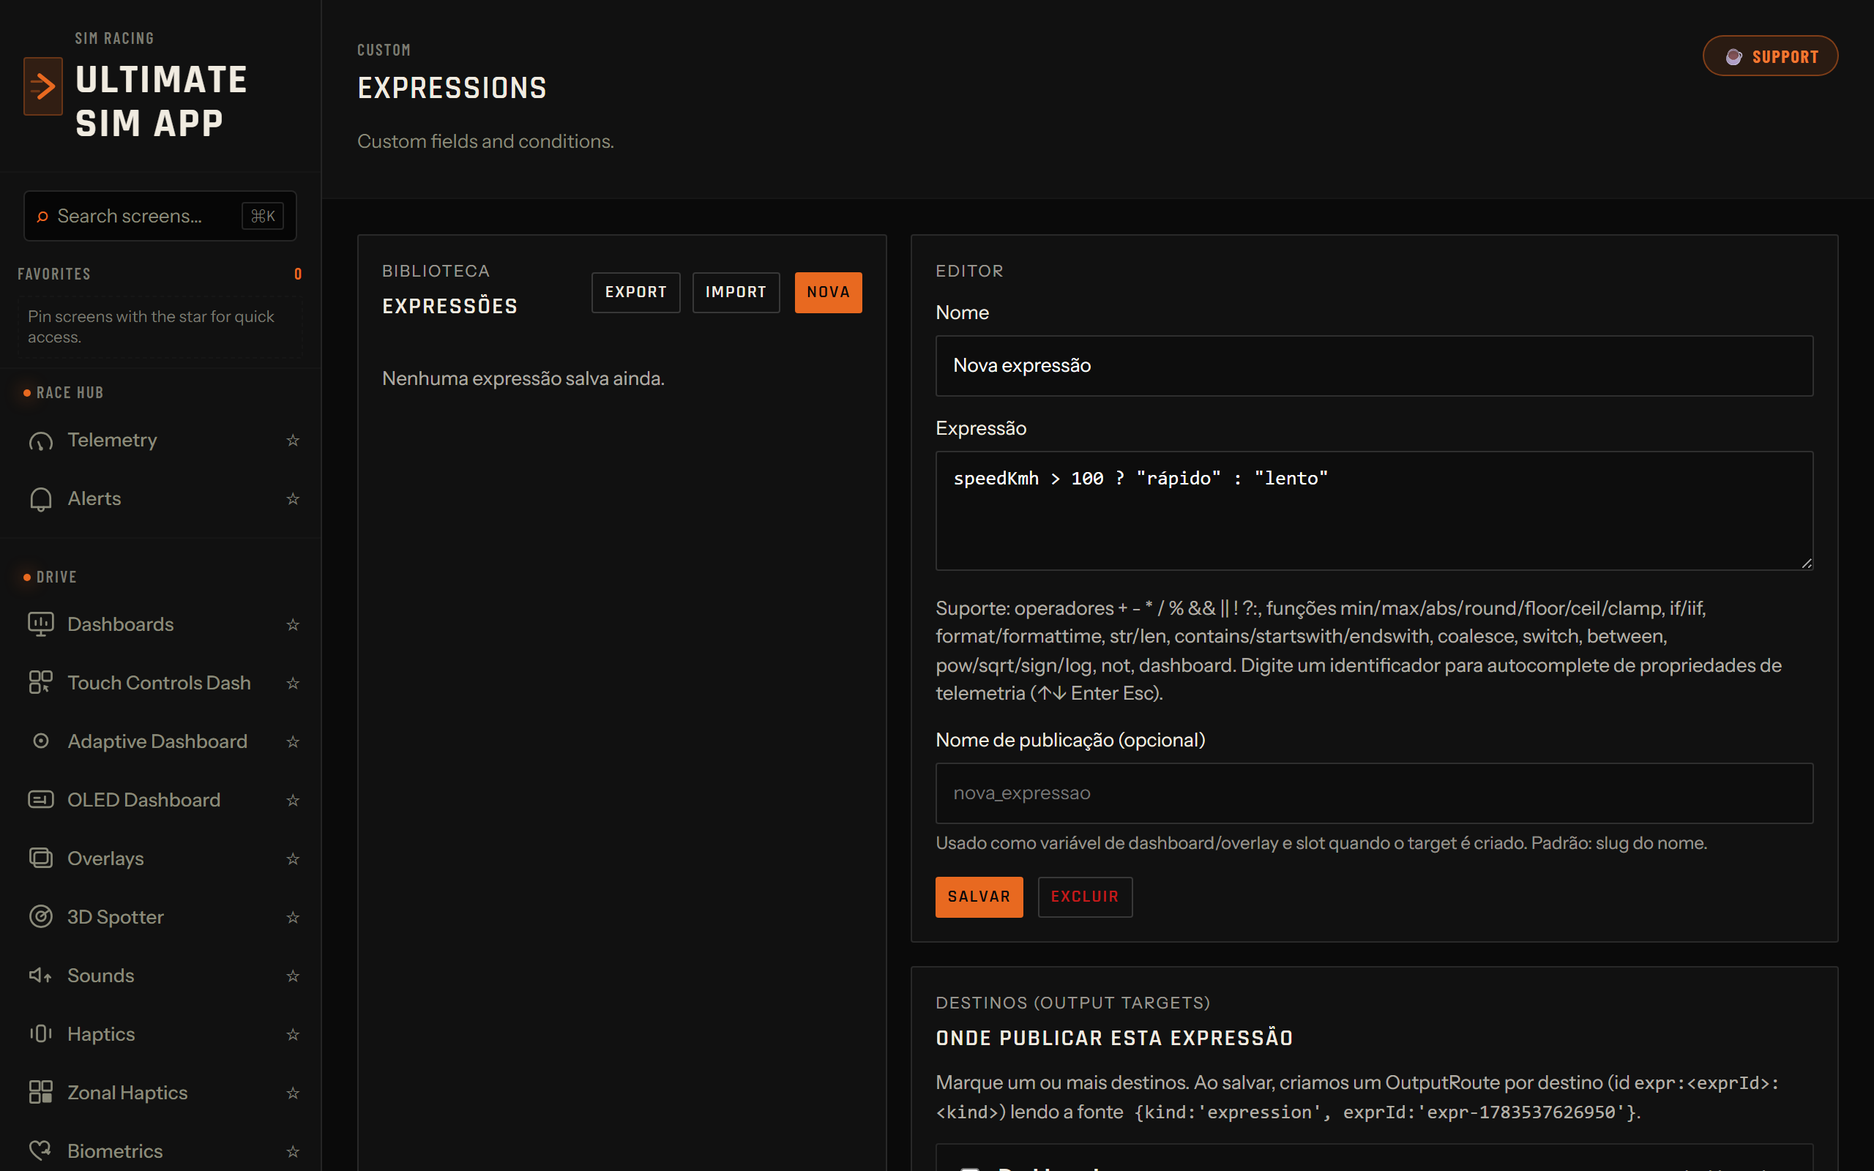
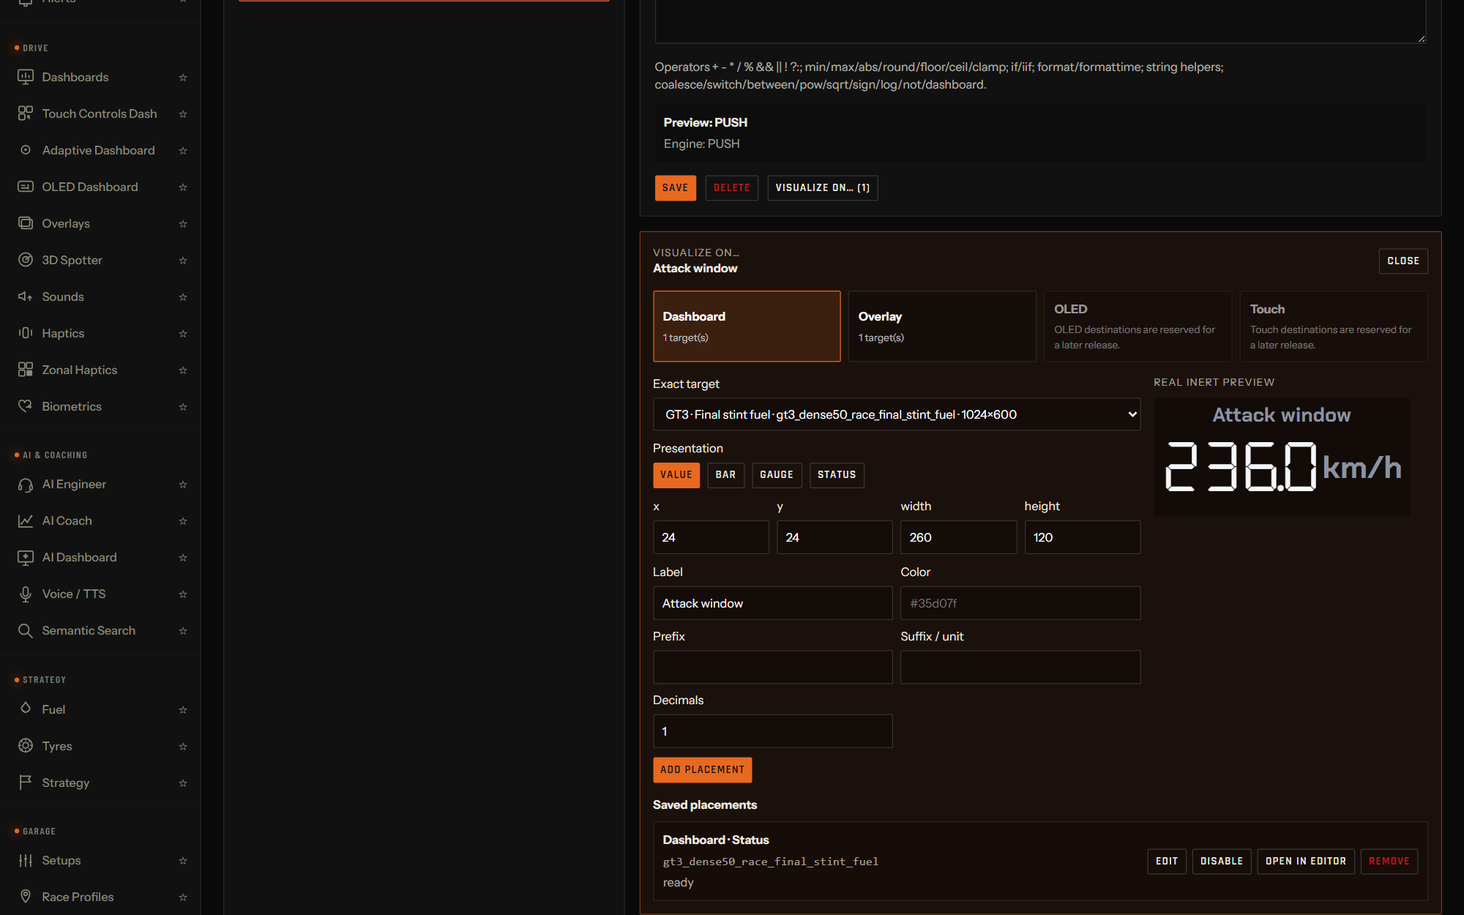
chore(release): prepare v2.52.0

diff --git a/app-v2/visual-audit/views-harness-stubs.ts b/app-v2/visual-audit/views-harness-stubs.ts
@@ -8,6 +8,14 @@ import { DEFAULT_HAPTICS_ZONAL_CONFIG } from '@shared/haptics-zonal'
 import { DEFAULT_SETUPS_CONFIG } from '@shared/setups'
 import { DEFAULT_ENGINEER_CONFIG } from '@shared/engineer-ipc'
 import { DEFAULT_SPOTTER_CONFIG } from '@shared/spotter'
+import { EXPR_CHANNELS, type ExpressionResultsBatch } from '@shared/expr'
+import {
+  resolveExpressionDestinationPlacements,
+  type ExpressionPlacementRequest,
+  type ExpressionStudioSnapshot
+} from '@shared/expression-studio'
+import { summarizeButtonBoxPanel } from '@shared/touch-panel'
+import { TOUCH_PANEL_PRESETS } from '@shared/touch-panel-presets'
 import { createMockSnapshot } from './mock-telemetry'
 
 type AnyFn = (...args: unknown[]) => unknown
@@ -24,6 +32,105 @@ const settings = {
   ...DEFAULT_APP_SETTINGS,
   language: 'en',
   defaultTelemetrySource: 'mock'
+}
+
+const touchDisplay = {
+  id: 1,
+  label: 'Cockpit touch display · 1280×800',
+  width: 1280,
+  height: 800,
+  primary: true
+}
+const touchPanel = TOUCH_PANEL_PRESETS[0]
+const touchPanelSummary = touchPanel ? summarizeButtonBoxPanel(touchPanel) : null
+
+const expressionStudio: ExpressionStudioSnapshot = {
+  version: 3,
+  revision: 7,
+  expressions: [
+    {
+      id: 'attack-window',
+      name: 'Attack window',
+      expr: 'speedKmh > 200 ? "PUSH" : "HOLD"'
+    }
+  ],
+  enabledVars: [],
+  outputs: [],
+  destinations: [
+    {
+      id: 'attack-window-dashboard',
+      source: { expressionId: 'attack-window' },
+      surface: 'dashboard',
+      targetId: 'gt3_dense50_race_final_stint_fuel',
+      presentation: 'status',
+      geometry: { x: 760, y: 64, width: 220, height: 96 },
+      format: {
+        label: 'Attack window',
+        trueText: 'PUSH',
+        falseText: 'HOLD',
+        color: '#14ffec'
+      },
+      enabled: true
+    }
+  ],
+  updatedAt: '2026-07-15T00:00:00.000Z',
+  capabilities: [
+    {
+      surface: 'dashboard',
+      available: true,
+      presentations: ['value', 'bar', 'gauge', 'status'],
+      targets: [
+        {
+          id: 'gt3_dense50_race_final_stint_fuel',
+          label: 'GT3 · Final stint fuel',
+          width: 1024,
+          height: 600,
+          kind: 'dashboard'
+        }
+      ]
+    },
+    {
+      surface: 'overlay',
+      available: true,
+      presentations: ['value', 'bar', 'gauge', 'status'],
+      targets: [
+        {
+          id: 'visual-audit-overlay',
+          label: 'Race engineer overlay',
+          width: 420,
+          height: 140,
+          kind: 'custom-overlay'
+        }
+      ]
+    },
+    {
+      surface: 'oled',
+      available: false,
+      reason: 'OLED destinations are reserved for a later release.',
+      presentations: ['value', 'status'],
+      targets: []
+    },
+    {
+      surface: 'touch',
+      available: false,
+      reason: 'Touch destinations are reserved for a later release.',
+      presentations: ['value', 'status'],
+      targets: []
+    }
+  ],
+  destinationStatuses: [
+    {
+      destinationId: 'attack-window-dashboard',
+      status: 'ready'
+    }
+  ]
+}
+
+const expressionResults: ExpressionResultsBatch['results'] = {
+  'attack-window': {
+    name: 'Attack window',
+    value: 'PUSH'
+  }
 }
 
 const fuelState = {
@@ -78,6 +185,9 @@ function channelDefault(channel: string, args: unknown[]): unknown {
   if (channel === 'app:getSettings') return settings
   if (channel === 'app:setSettings') return { ...settings, ...(args[0] as object | undefined) }
   if (channel === 'app:openUserData' || channel === 'app:openRecordings') return ''
+  if (channel === 'app:touchpanel:listDisplays') return [touchDisplay]
+  if (channel === 'app:touchpanel:list') return touchPanelSummary ? [touchPanelSummary] : []
+  if (channel === 'app:touchpanel:get') return args[0] === touchPanel?.id ? touchPanel : null
   if (channel.includes('listDisplays') || channel === 'overlays:getDisplays') return displays
   if (channel === 'oled:getPresets') return OLED_PRESETS
   if (channel === 'revlights:getPresets') return REVLIGHTS_PRESETS
@@ -129,8 +239,25 @@ function channelDefault(channel: string, args: unknown[]): unknown {
   }
   if (channel.startsWith('teamfuel:')) return []
   if (channel.startsWith('alerts:')) return DEFAULT_ALERTS_CONFIG
-  if (channel === 'expr:getExpressions' || channel === 'expr:setExpressions') return []
-  if (channel === 'expr:getEnabledVars' || channel === 'expr:setEnabledVars') return []
+  if (channel === EXPR_CHANNELS.getStudio) return expressionStudio
+  if (channel === EXPR_CHANNELS.mutateStudio) return { ...expressionStudio, revision: expressionStudio.revision + 1 }
+  if (channel === EXPR_CHANNELS.getPlacements) {
+    const request = args[0] as Partial<ExpressionPlacementRequest> | undefined
+    if (
+      (request?.surface === 'dashboard' || request?.surface === 'overlay') &&
+      typeof request.targetId === 'string'
+    ) {
+      return resolveExpressionDestinationPlacements(
+        expressionStudio,
+        expressionStudio.capabilities,
+        request as ExpressionPlacementRequest
+      )
+    }
+    return []
+  }
+  if (channel === EXPR_CHANNELS.getResults) return expressionResults
+  if (channel === EXPR_CHANNELS.getExpressions || channel === EXPR_CHANNELS.setExpressions) return expressionStudio.expressions
+  if (channel === EXPR_CHANNELS.getEnabledVars || channel === EXPR_CHANNELS.setEnabledVars) return expressionStudio.enabledVars
   if (channel.startsWith('outputs:')) return []
   if (channel === 'actions:emulationStatus') return emulationStatus
   if (channel.startsWith('actions:')) return []
@@ -142,7 +269,7 @@ function channelDefault(channel: string, args: unknown[]): unknown {
   if (channel.startsWith('esp32:')) return channel.includes('discover') ? [] : { devices: [], connected: false }
   if (channel.startsWith('overlays:')) return channel.includes('Config') ? {} : []
   if (channel.startsWith('app:dash:')) return []
-  if (channel.startsWith('app:touchpanel:')) return channel.endsWith(':get') ? null : []
+  if (channel.startsWith('app:touchpanel:')) return []
   if (channel.startsWith('app:pitpanel:')) return false
   if (channel === 'setups:env') return { supported: true, platform: 'win32', setupsDir: 'C:\\iRacing\\setups' }
   if (channel === 'setups:listCarFolders') return []

diff --git a/app-v2/src/main/modules/updater-package.test.ts b/app-v2/src/main/modules/updater-package.test.ts
@@ -33,15 +33,15 @@ describe('Windows updater package safety', () => {
     })
   })
 
-  it('keeps package and lockfile versions aligned at 2.51.1', () => {
+  it('keeps package and lockfile versions aligned at 2.52.0', () => {
     const packageJson = JSON.parse(readFileSync(join(root, 'package.json'), 'utf8')) as { version: string }
     const packageLock = JSON.parse(readFileSync(join(root, 'package-lock.json'), 'utf8')) as {
       version: string
       packages: Record<string, { version?: string }>
     }
 
-    expect(packageJson.version).toBe('2.51.1')
-    expect(packageLock.version).toBe('2.51.1')
-    expect(packageLock.packages['']?.version).toBe('2.51.1')
+    expect(packageJson.version).toBe('2.52.0')
+    expect(packageLock.version).toBe('2.52.0')
+    expect(packageLock.packages['']?.version).toBe('2.52.0')
   })
 })

diff --git a/app-v2/visual-audit/widget-grid.tsx b/app-v2/visual-audit/widget-grid.tsx
@@ -27,7 +27,7 @@ const STATES: Record<string, () => TelemetrySnapshot> = {
   yellow: () => createMockSnapshot({ flags: flagsYellowGreen() }),
   blue: () => createMockSnapshot({ flags: flagsBlue() }),
   pit: () =>
-    createMockSnapshot({ onPitRoad: true, pitLimiter: true, fuelLevel: 3.4, speedKmh: 58, gear: 1 }),
+    createMockSnapshot({ onPitRoad: true, pitLimiter: true, fuelLiters: 3.4, speedKmh: 58, gear: 1 }),
   // Worst-case string lengths + critical thresholds to exercise overflow guards.
   extreme: () =>
     createMockSnapshot({
@@ -37,7 +37,7 @@ const STATES: Record<string, () => TelemetrySnapshot> = {
       shiftIndicatorPct: 1,
       waterTempC: 145,
       oilTempC: 138,
-      fuelLevel: 1.2,
+      fuelLiters: 1.2,
       deltaToBestSec: -99.999,
       deltaToSessionBestSec: 99.999
     })

diff --git a/README.md b/README.md
@@ -27,14 +27,14 @@ Ultimate Sim App combines live race telemetry, dashboard composition, transparen
 ## What's new
 
 <!-- WHATS_NEW:START -->
-### 2.51.0 (draft) — telemetry coverage, dense dashboards, units, and live-data safety
+### 2.52.0 (draft) — semantic controls, expression destinations, secure streaming, and language-correct speech
 
-- The generated iRacing telemetry framework implements **423 real widget variants for 141 concepts**, with competition, futuristic-plausible, and DDU-inspired styles.
-- The dashboard catalog adds **50 individually authored dense GT3 layouts**, bringing the built-in total to **336 presets**.
-- Settings adds **Metric** and **Imperial/US** units for telemetry, dashboards, strategy, Coach, and Engineer output.
-- The local Coach distinguishes overtake, defend, general improvement, and qualifying contexts without claiming opponent controls that iRacing does not expose.
-- Streaming adds a searchable dashboard/Touch Controls target and an optional bundled Cloudflare quick tunnel; LAN and Internet access require a token and password.
-- Confirmed live, replay, and unknown telemetry contexts now fence live-only analytics, alerts, alert-driven transient hardware effects, and track-map learning. Full-profile import is temporarily disabled; per-section import/export remains available.
+- **Touch Controls schema v2** adds momentary, latching toggle, rocker, guarded two-step, rotary, selector, status LED, and value-tile controls with expression-driven states and accessible interaction.
+- **Expression Studio destinations** can place custom expressions or mapped iRacing variables on a selected dashboard or custom overlay with value, bar, gauge, or status presentations.
+- **Streaming hardening** adds prefix-safe resource discovery, HttpOnly viewer sessions, authentication throttling, capacity isolation, explicit HTTPS requirements for Internet mode, and fail-closed browser controls.
+- **Trigger-only race overlays** now use temporal rising/falling edges, pulses, TTL windows, preview isolation, and replay/session reset boundaries; normal steady green no longer activates race-control alerts.
+- **Speech language synchronization** keeps Spotter, Coach, Engineer, voice previews, and Stint Debrief text aligned with the selected voice/language and cancels stale speech when language changes.
+- **Visual and catalog reliability** fixes 19 release-blocking widget layouts, preserves expression output recency, and keeps newly released overlays, widgets, and dashboards ahead of older catalog entries.
 
 ### 2.50.0 — Intent- & racecraft-aware AI Coach
 
@@ -66,16 +66,16 @@ Ultimate Sim App combines live race telemetry, dashboard composition, transparen
 - **Dashboard builder/editor** with live preview, duplicate-and-edit workflow, monitor selection, import/export, and open-on-display support.
 - **336 built-in dashboard presets**, including 50 dense 1024×600 GT3 layouts for qualifying, sprint, race, and endurance use.
 - **Race playlist** support can interleave dashboards and Touch Controls panels and cycle them from mapped hardware buttons.
-- **Read-only dashboard streaming** in local, LAN, or Internet mode, with a session token, mandatory password for LAN/Internet, stream-safe identity masking, selectable dashboard or Touch Controls target, and either a manual public HTTPS URL or the bundled checksum-verified Cloudflare quick tunnel.
+- **Read-only dashboard streaming** in local, LAN, or Internet mode, with HttpOnly viewer sessions, authentication throttling, capacity isolation, stream-safe identity masking, a selectable dashboard or Touch Controls target, and either a verified public HTTPS URL or the bundled checksum-verified Cloudflare quick tunnel.
 - **Adaptive dashboards** that show/hide or emphasize widgets according to session phase and live race context.
 - **AI dashboard builder** that assembles a preview from a plain-English description, with an offline keyword fallback when the local model is unavailable.
 - **OLED Dashboard** presets for 128x64 ButtonBox displays.
-- **Touch Controls Dash** for pit panels and editable RGB button boxes on a cockpit touchscreen or streamed device.
+- **Touch Controls Dash schema v2** for semantic momentary, toggle, rocker, guarded, rotary, selector, status-LED, and value-tile controls, with expression-driven states, keyboard ownership cleanup, accessible interaction, and editable RGB button boxes.
 
 ### Overlays and race awareness
 
 - Transparent overlay windows for gear/speed, delta, inputs, fuel, relative/standings, flags, tyres, brakes, weather, radar, rev lights, and telemetry widgets.
-- **Trigger-only condition overlays** for warnings such as spotter arrows, proximity/radar, shift flash, pit limiter, flag alerts, and low fuel.
+- **Trigger-only condition overlays** for spotter/proximity, pace-car and pits-open messages, DRS, pit service, repairs, weather, race-control flags, incidents, shift flash, pit limiter, and low fuel, with pulse/TTL behavior and replay/session-safe resets.
 - **Interactive 3D Waze-style navigation map** with follow-camera track-up behavior, zoom, pan/rotate, recenter, layout-specific learned outlines/corners, replay-safe learning pauses, and a 2D fallback where WebGL is unavailable.
 - Overlay editing, positioning, import/export, and compositor mode for one transparent window per display.
 
@@ -119,7 +119,7 @@ Ultimate Sim App combines live race telemetry, dashboard composition, transparen
 
 ## Screenshots
 
-These v2.51 images were captured locally from the current-main React renderer and visual-audit harness with deterministic mock telemetry. They are real UI renders, not generated marketing artwork. Authentication-, simulator-, and hardware-only states remain empty when the harness cannot supply them.
+These images were captured locally from the current-main React renderer and visual-audit harness with deterministic mock telemetry. The v2.52 refresh includes the semantic Touch Controls editor and Expression Studio destinations. They are real UI renders, not generated marketing artwork. Authentication-, simulator-, and hardware-only states remain empty when the harness cannot supply them.
 
 | Current GT3 endurance DDU | Current 336-preset dashboard gallery |
 |---|---|
@@ -143,7 +143,11 @@ These v2.51 images were captured locally from the current-main React renderer an
 
 | Current overlay widget renderer | All 336 current dashboard presets |
 |---|---|
-| <img src="app-v2/docs/screenshots/overlay-widgets-gallery.png" alt="Minimal-style overlay gallery showing current real-renderer telemetry widgets" width="520" /> | <img src="app-v2/docs/screenshots/dashboard-presets-336-contact-sheet.png" alt="Contact sheet of all 336 current v2.51 dashboard presets rendered by the real dashboard renderer" width="520" /> |
+| <img src="app-v2/docs/screenshots/overlay-widgets-gallery.png" alt="Minimal-style overlay gallery showing current real-renderer telemetry widgets" width="520" /> | <img src="app-v2/docs/screenshots/dashboard-presets-336-contact-sheet.png" alt="Contact sheet of all 336 current dashboard presets rendered by the real dashboard renderer" width="520" /> |
+
+| Semantic Touch Controls editor | Expression visualization destinations |
+|---|---|
+| <img src="app-v2/docs/screenshots/touch-controls.png" alt="Touch Controls Dash schema v2 editor with semantic racing controls and cockpit display targeting" width="520" /> | <img src="app-v2/docs/screenshots/expr.png" alt="Expression Studio showing a live expression and explicit dashboard and overlay visualization destinations" width="520" /> |
 
 ---
 
@@ -175,7 +179,7 @@ These v2.51 images were captured locally from the current-main React renderer an
 - **Race Profiles** — per-car/track profiles for bindings, OLED pages, overlays, alerts, and hardware behavior.
 - **Setups** — local or URL-based setup installation workflows.
 - **Community** — local-first ghosts, telemetry, and setup sharing through `.simshare` files.
-- **Expressions** — CSP-safe custom fields and conditions without `eval`.
+- **Expressions** — CSP-safe custom fields and conditions without `eval`, transaction-safe imports, revision conflict protection, and explicit Dashboard/custom Overlay visualization destinations.
 
 ### Local AI
 
@@ -185,7 +189,7 @@ The AI Engineer, AI Coach, lap analysis, semantic search, and adaptive selection
 - **AI Coach** — intent- and racecraft-aware driving coach for overtake, defend, general improvement, and qualifying context, with confidence, silence when unsure, Turn+Sector grounding, local per-car/track baselines, and replay/live fencing.
 - **AI Dashboard Builder** — dashboard generation from text, with offline fallback behavior.
 - **Semantic Search** — meaning-based search with keyword fallback.
-- **Voice / TTS** — offline voices where available, system fallback, and voice-oriented race feedback.
+- **Voice / TTS** — offline voices where available, system fallback, and language-synchronized Spotter, Coach, Engineer, preview, and Stint Debrief speech.
 
 ### Hardware and app
 

diff --git a/RELEASE-NOTES.md b/RELEASE-NOTES.md
@@ -1,5 +1,53 @@
 # Ultimate Sim App — Release Notes
 
+## v2.52.0 — Semantic controls, expression destinations, secure streaming & synchronized speech
+
+Release 2.52 brings the Release B foundations into the Windows app: richer cockpit controls,
+explicit destinations for custom telemetry, safer browser streaming, temporal race alerts, and
+speech that stays aligned with the selected language.
+
+### Highlights
+- 🎛 **Touch Controls schema v2** — momentary, latching toggle, rocker, guarded two-step,
+  rotary, selector, status LED, and value-tile controls with expression-driven states,
+  accessibility, multi-touch ownership, and deterministic key release.
+- 📊 **Expression visualization destinations** — place a custom expression or mapped iRacing
+  variable on a selected dashboard or custom overlay as a value, bar, gauge, or status.
+- 🔐 **Secure streaming sessions** — HttpOnly viewers, authentication throttling, prefix-safe
+  resource discovery, capacity isolation, HTTPS-only Internet exposure, and fail-closed browser
+  controls.
+- 🚨 **Temporal trigger-only overlays** — pace-car, pits-open, DRS, pit service, repairs,
+  precipitation/wetness/fog, proximity, incidents, race-control flags, pit limiter, low fuel, and
+  other alerts appear only while relevant or for their configured pulse/TTL.
+- 🗣 **Language-correct speech** — Spotter, Coach, Engineer, previews, and Stint Debrief now keep
+  spoken copy synchronized with the selected language and cancel stale audio on language changes.
+- 🧼 **Visual reliability** — 19 release-blocking widget targets were corrected across validated
+  telemetry states, and steady green no longer triggers a race-control warning.
+
+### Reliability and compatibility
+- Expression imports are transactional and revision-checked; deletion tombstones, unsaved drafts,
+  legacy route state, and duplicate-name output recency are preserved.
+- Touch key holds/latches release on unmount, close, reload, navigation, renderer loss, live edits,
+  disabled-state transitions, and app teardown.
+- Packaged streaming verifies nested JavaScript/CSS resources, dynamic imports, preloads, and
+  browser-tolerated script closing tags.
+- Windows 10/11 x64 · Electron + React + TypeScript · local-first Coach/Engineer/TTS.
+
+### Validation
+- Full test suite: **3,683 tests passing. Typecheck clean.**
+- Production build and the **47-file streaming resource graph** pass.
+- Windows packaging is verified before all four updater artifacts are attached.
+
+_Installer: `Ultimate-Sim-App-2.52.0-x64.exe` (NSIS, x64) + portable `.zip` + blockmap + `latest.yml`._
+
+### What's Changed
+- [#54](https://github.com/guilhermerbasso/ultimate-sim-app/pull/54) — repair release-blocking widget clipping and overflow.
+- [#56](https://github.com/guilhermerbasso/ultimate-sim-app/pull/56) — add temporal trigger-only overlay lifecycles.
+- [#57](https://github.com/guilhermerbasso/ultimate-sim-app/pull/57) — exclude steady green from race-control alerts.
+- [#55](https://github.com/guilhermerbasso/ultimate-sim-app/pull/55) — synchronize spoken text with the selected language.
+- [#58](https://github.com/guilhermerbasso/ultimate-sim-app/pull/58) — add Expression destinations, semantic Touch Controls, and secure streaming foundations.
+
+**Full Changelog:** https://github.com/guilhermerbasso/ultimate-sim-app/compare/v2.50.0...v2.52.0
+
 ## v2.44.0 — v5: real-dash car themes + more iRacing widgets (Windows .exe restored) 🏎
 
 Consolidates the v5 work from PR #15 and **fixes the Windows installer pipeline** so every release ships a working `.exe` again.

diff --git a/CHANGELOG.md b/CHANGELOG.md
@@ -6,6 +6,38 @@
 - Added repository documentation, contribution guidance, security policy, and Apache-2.0 licensing.
 - Cleaned project identity and public metadata for community distribution.
 
+## 2.52.0 — semantic controls, expression destinations, secure streaming, and synchronized speech
+
+### Added
+- **Touch Controls schema v2** with momentary, latching toggle, two-position rocker, guarded
+  two-step, rotary, selector, status-LED, and value-tile controls. Controls support
+  expression-driven active/pressed/disabled/warning/value states and accessible interaction.
+- **Expression Studio visualization destinations** for placing expressions or mapped iRacing
+  variables on a selected dashboard or custom overlay as a value, bar, gauge, or status.
+- **Trigger-only overlay lifecycle** with rising/falling edges, pulses, TTL windows, preview
+  isolation, DRS state normalization, and replay/session/connection reset boundaries.
+- **Streaming resource graph verification** for packaged HTML, JavaScript, CSS, dynamic imports,
+  preloads, and nested assets.
+
+### Changed
+- Streaming viewer sessions are HttpOnly, authentication attempts are throttled, token bootstrap
+  cannot evict authenticated viewers, public Internet mode requires active HTTPS, and browser
+  Touch Controls fail closed.
+- Expression imports are transaction-safe and revision-checked; legacy route state, deletion
+  tombstones, unsaved drafts, and newest duplicate output values are preserved.
+- Touch holds and latches are owned per pointer and renderer generation, with cleanup on unmount,
+  close, reload, navigation, renderer loss, live semantic edits, disabled-state transitions, and
+  app teardown.
+- Newly released overlays, widgets, and dashboards sort ahead of older catalog entries.
+
+### Fixed
+- Spotter, Live Coach, deterministic/proactive Engineer, voice previews, and Stint Debrief now
+  compose spoken text and language atomically. Language changes cancel current speech, queues,
+  recognition, and stale Engineer generations.
+- Steady green is treated as normal running and no longer activates race-control alert overlays.
+- Nineteen release-blocking widget layouts no longer clip, overlap, or overflow in the validated
+  telemetry states.
+
 ## 2.47.0 — per-car themed telemetry widgets, car-fidelity images, more i18n
 
 ### Added
